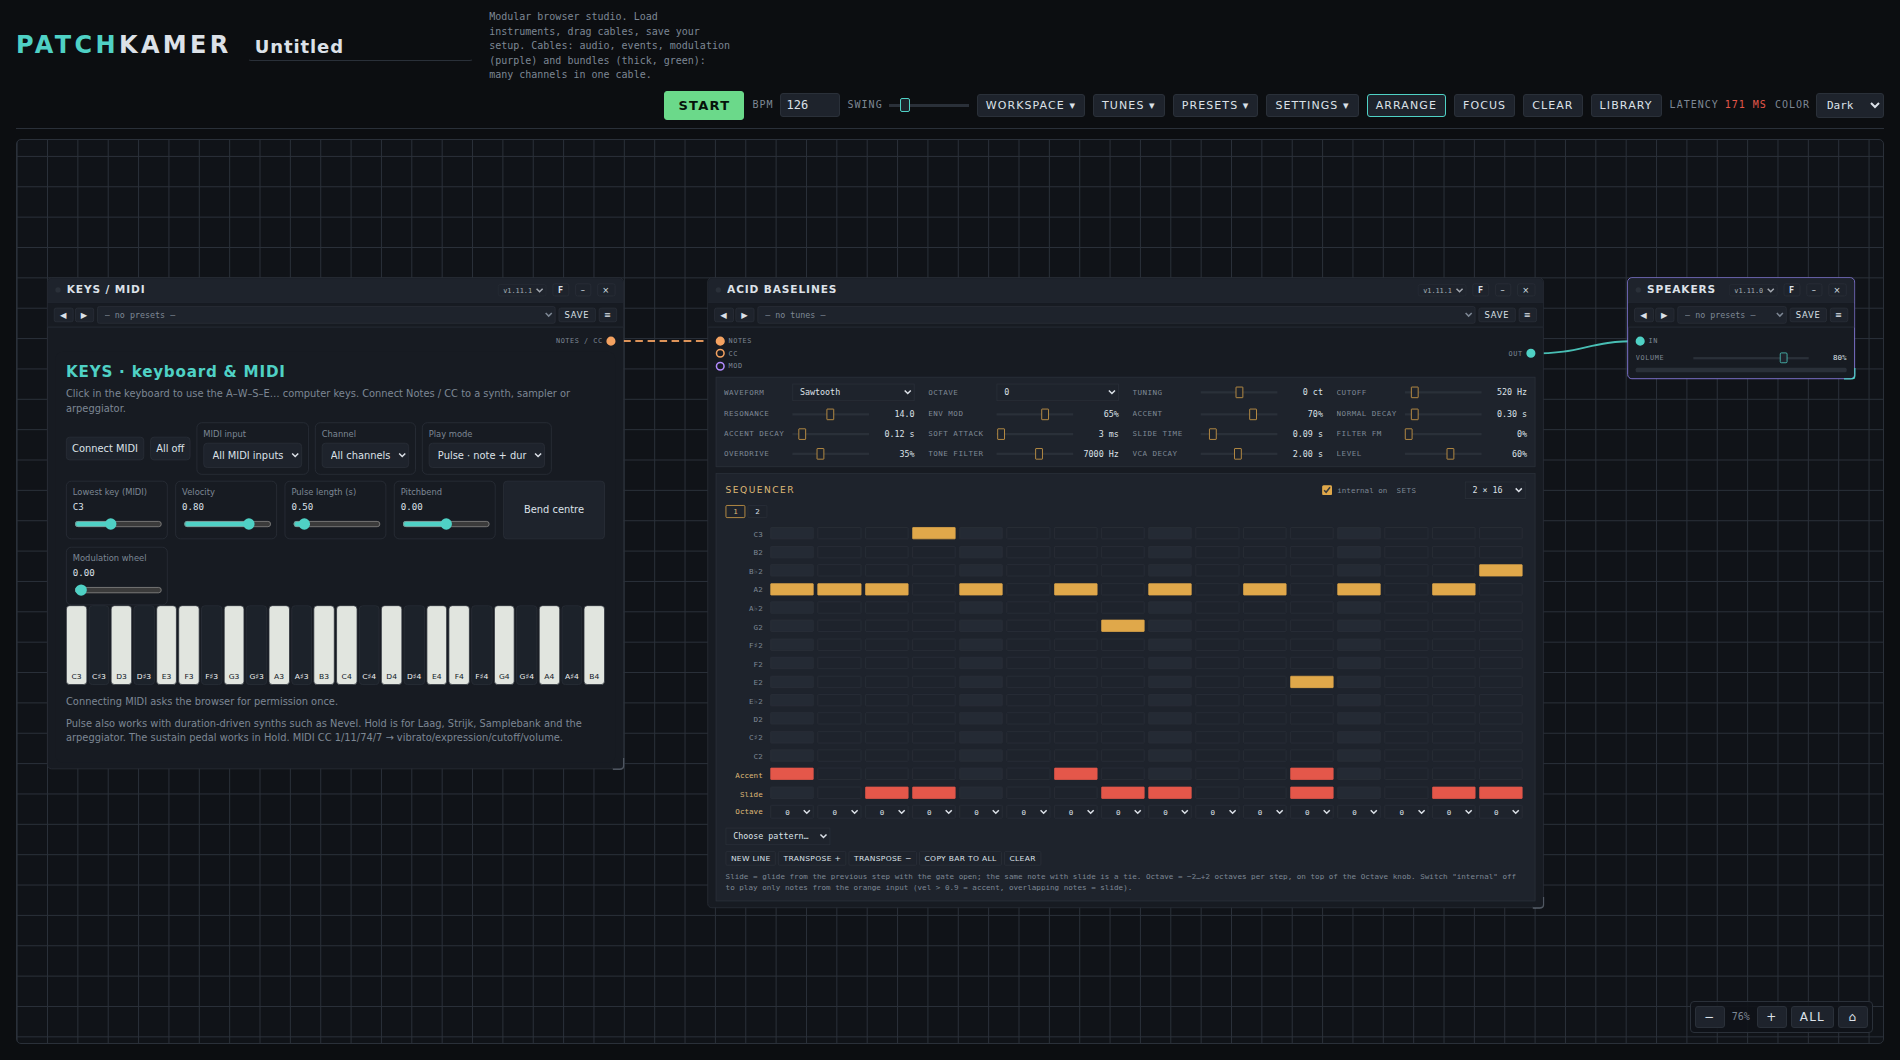
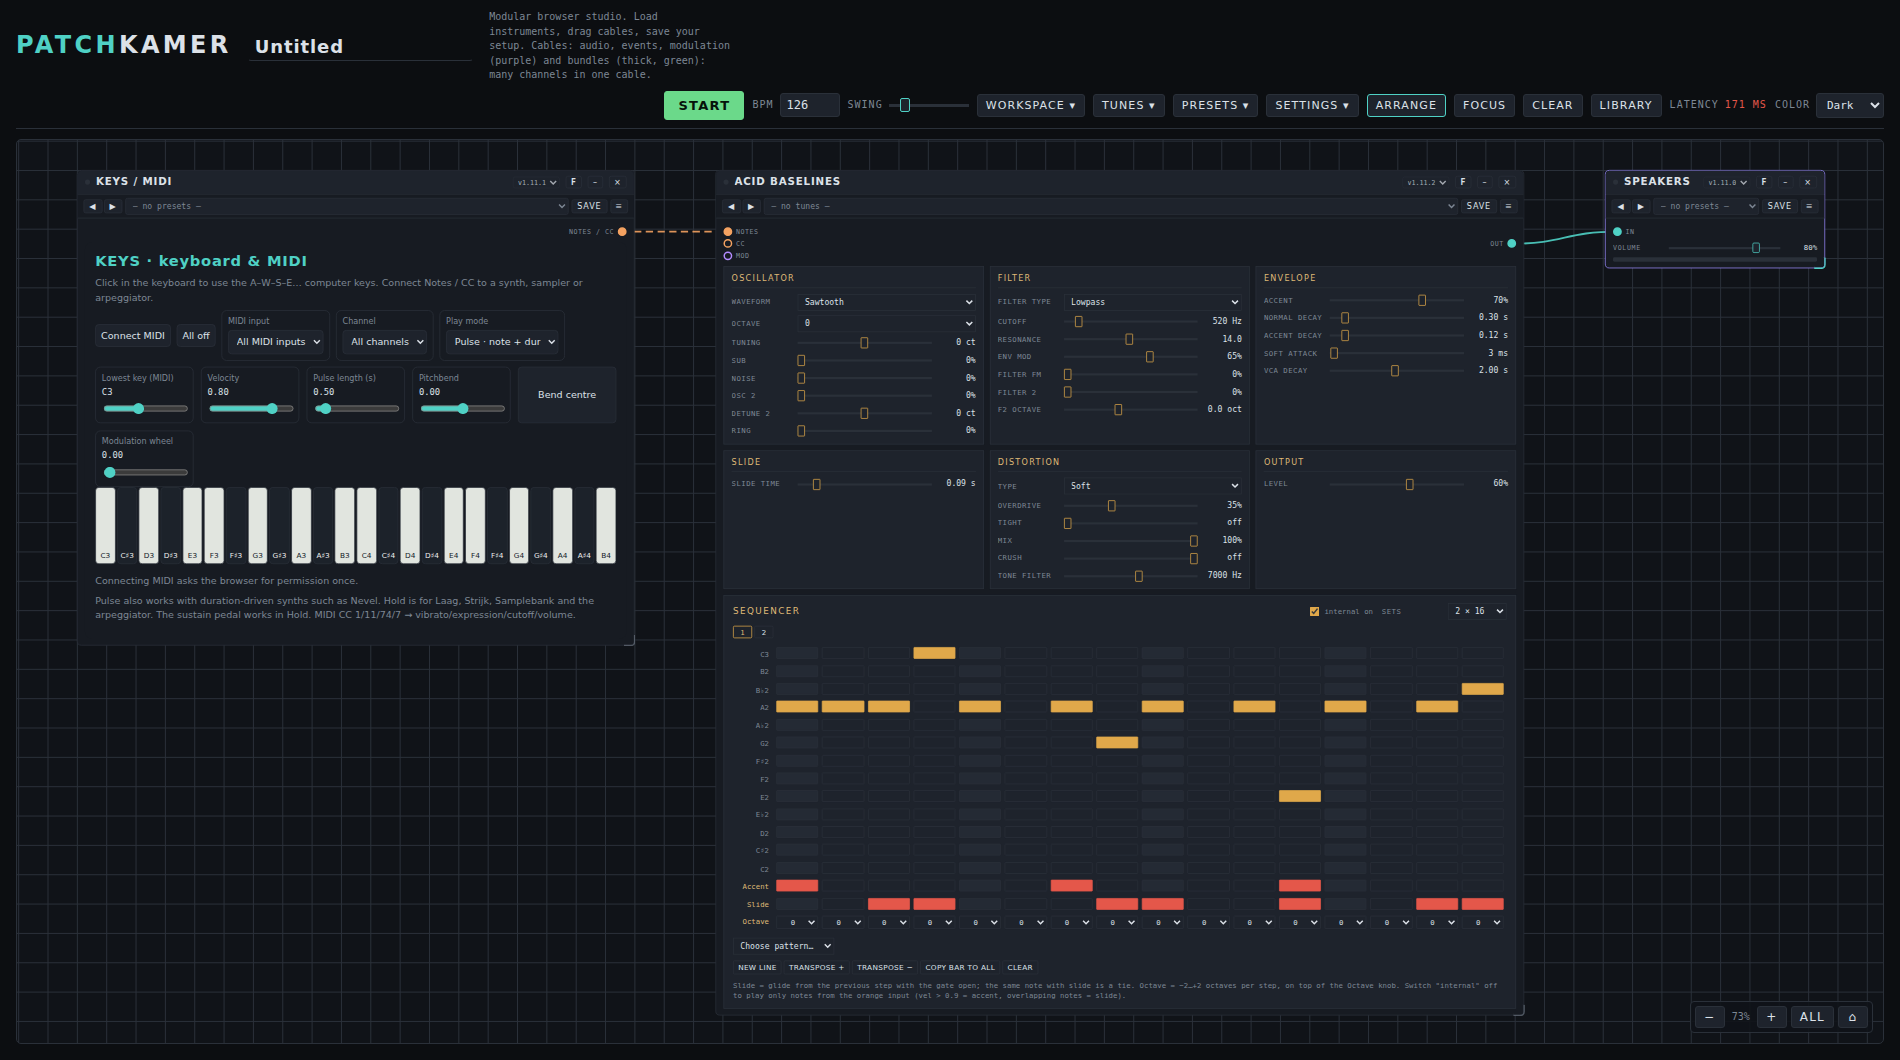
Documentatie: nieuwe functies van Acid Baselines in README en handleiding (NL en EN), screenshots ververst

diff --git a/docs/USER-MANUAL_NL.md b/docs/USER-MANUAL_NL.md
@@ -115,7 +115,15 @@ Een bassynth met een ingebouwde sequencer van 16 stappen.
 
 ![De kaart van Acid Baselines](images/nl/04-acid-baselines.png)
 
-- **Knoppen** bepalen de klank: golfvorm, octaaf, stemming, cutoff, resonantie, env mod, accent, decaytijden, soft attack, slidetijd, filter-FM, overdrive, toonfilter, VCA-decay en niveau. Dubbelklik op een schuif om terug te gaan naar de beginwaarde. Klik op het getal om een waarde te typen.
+- **Zes secties** groeperen de regelaars in de volgorde waarin het geluid door het apparaat loopt. Dubbelklik op een schuif om terug te gaan naar de beginwaarde. Klik op het getal om een waarde te typen.
+  - **Oscillator:** golfvorm, octaaf en stemming, plus **Sub** (een blokgolf een octaaf lager), **Ruis**, **Osc 2** met een eigen **Detune 2**, en **Ring** (ringmodulatie van de twee oscillatoren).
+  - **Filter:** het filtertype (lowpass, bandpass of highpass), cutoff, resonantie, env mod en **Filter FM**, plus **Filter 2**, een tweede bandpass-filter parallel, met een eigen octaafverschuiving (**F2 octaaf**).
+  - **Envelope:** accent, normal en accent decay, soft attack en VCA-decay.
+  - **Slide:** de glijtijd.
+  - **Distortion:** het **Type** (zacht, hard, fold of asym), **Overdrive**, **Tight** (filtert de bas weg vóór de vervorming, zodat hij strak blijft), **Mix** (vervormd tegenover schoon) en **Crush** (bitdiepte), plus het toonfilter.
+  - **Output:** het niveau.
+
+  Alles wat bovenop de oorspronkelijke regelaars is gekomen (sub, ruis, Osc 2, Ring, Filter 2, filtertype, vervormingstype, Tight, Mix en Crush) staat standaard uit, dus bestaande klanken en tunes blijven zoals ze waren. Combineer veel resonantie, filter-FM en vervorming voor extreme klanken. Een ingebouwde bewaker herstart de filters als ze ontsporen, zodat het geluid niet stil blijft.
 - **Sequencer.** Klik op een vakje om een noot op die stap te zetten; klik nog eens om hem weg te halen. De rijen lopen van C2 tot C3. Onder de noten vind je de rij **Accent** (een luidere, scherpere noot), de rij **Slide** (glijden vanuit de vorige stap) en een keuze **Octaaf** per stap.
 - **Sets.** Kies 1, 2, 4, 8 of 16 sets van 16 stappen. Met de genummerde knoppen kies je welke set je bewerkt.
 - **Patroon kiezen…** zet een van de 16 klassieke patronen in acid-stijl in de set die je bewerkt.

diff --git a/docs/USER-MANUAL_EN.md b/docs/USER-MANUAL_EN.md
@@ -115,7 +115,15 @@ A bass synth with a built-in 16-step sequencer.
 
 ![The Acid Baselines card](images/en/04-acid-baselines.png)
 
-- **Knobs** shape the sound: waveform, octave, tuning, cutoff, resonance, envelope amount, accent, decay times, soft attack, slide time, filter FM, overdrive, tone filter, VCA decay and level. Double-click a slider to go back to its starting value. Click the number to type a value.
+- **Six sections** group the controls in the order the sound travels through the device. Double-click a slider to go back to its starting value. Click the number to type a value.
+  - **Oscillator:** waveform, octave and tuning, plus **Sub** (a square wave an octave down), **Noise**, **Osc 2** with its own **Detune 2**, and **Ring** (ring modulation of the two oscillators).
+  - **Filter:** the filter type (lowpass, bandpass or highpass), cutoff, resonance, envelope amount and **Filter FM**, plus **Filter 2**, a second bandpass filter in parallel, with its own octave offset (**F2 octave**).
+  - **Envelope:** accent, normal and accent decay, soft attack and VCA decay.
+  - **Slide:** the glide time.
+  - **Distortion:** the **Type** (soft, hard, fold or asym), **Overdrive**, **Tight** (filters the bass out before the distortion so it stays punchy), **Mix** (distorted against clean) and **Crush** (bit depth), plus the tone filter.
+  - **Output:** the level.
+
+  Everything on top of the original controls (sub, noise, Osc 2, Ring, Filter 2, filter type, distortion type, Tight, Mix and Crush) is off by default, so existing sounds and tunes stay as they were. Combine a lot of resonance, filter FM and distortion for extreme sounds. A built-in guard restarts the filters if they run away, so the sound does not stay silent.
 - **Sequencer.** Click a square to place a note on that step; click again to remove it. The rows run from C2 to C3. Below the notes you find the **Accent** row (a louder, snappier note), the **Slide** row (glide from the previous step) and an **Octave** choice per step.
 - **Sets.** Choose 1, 2, 4, 8 or 16 sets of 16 steps. The numbered buttons switch which set you edit.
 - **Choose pattern…** puts one of 16 classic acid-style patterns in the set you are editing.

diff --git a/README_NL.md b/README_NL.md
@@ -29,7 +29,7 @@ De [gebruikershandleiding](docs/USER-MANUAL_NL.md) leidt je er stap voor stap do
 | Apparaat | Wat het is | Map |
 |---|---|---|
 | **Duofone** | Een synth in analoge stijl met twee onafhankelijke toonhoogten, een gedeeld filter en een gedeelde VCA, ringmodulatie, hard sync en sample & hold | `devices/synths/Duofone/` |
-| **Acid Baselines** | Een bassynth met een sequencer van 16 stappen (accent, slide, octaaf per stap) en 16 klassieke patronen in acid-stijl | `devices/synths/AcidBaselines/` |
+| **Acid Baselines** | Een bassynth met een sequencer van 16 stappen (accent, slide, octaaf per stap), 16 klassieke patronen in acid-stijl, extra oscillatoren en vier soorten vervorming | `devices/synths/AcidBaselines/` |
 | **Keys / MIDI** | Een keyboard en Web MIDI-brug die noten naar andere apparaten stuurt | `devices/tools/Keys/` |
 | **Mixer** | Een mengpaneel met 1 tot 32 kanalen en 0 tot 8 groepen: trim, EQ, sends en returns, pan, faders, mute en solo, bundel in en uit, en een master met een begrenzer | `devices/mixer/Mixer/` |
 | **Leveler** | Houdt het gemiddelde volume van een bron gelijk: een leveler met een begrenzer erachter | `devices/mixer/Leveler/` |

diff --git a/README.md b/README.md
@@ -29,7 +29,7 @@ The [user manual](docs/USER-MANUAL_EN.md) walks you through it step by step, wit
 | Device | What it is | Folder |
 |---|---|---|
 | **Duofone** | An analog-style synth with two independent pitches, a shared filter and VCA, ring modulation, hard sync and sample & hold | `devices/synths/Duofone/` |
-| **Acid Baselines** | A bass synth with a 16-step sequencer (accent, slide, octave per step) and 16 classic acid-style patterns | `devices/synths/AcidBaselines/` |
+| **Acid Baselines** | A bass synth with a 16-step sequencer (accent, slide, octave per step), 16 classic acid-style patterns, extra oscillators and four kinds of distortion | `devices/synths/AcidBaselines/` |
 | **Keys / MIDI** | A keyboard and Web MIDI bridge that sends notes to other devices | `devices/tools/Keys/` |
 | **Mixer** | A mixing desk with 1 to 32 channels and 0 to 8 groups: trim, EQ, sends and returns, pan, faders, mute and solo, bundle in and out, and a master with a limiter | `devices/mixer/Mixer/` |
 | **Leveler** | Keeps the average volume of a source steady: a leveler with a limiter behind it | `devices/mixer/Leveler/` |
